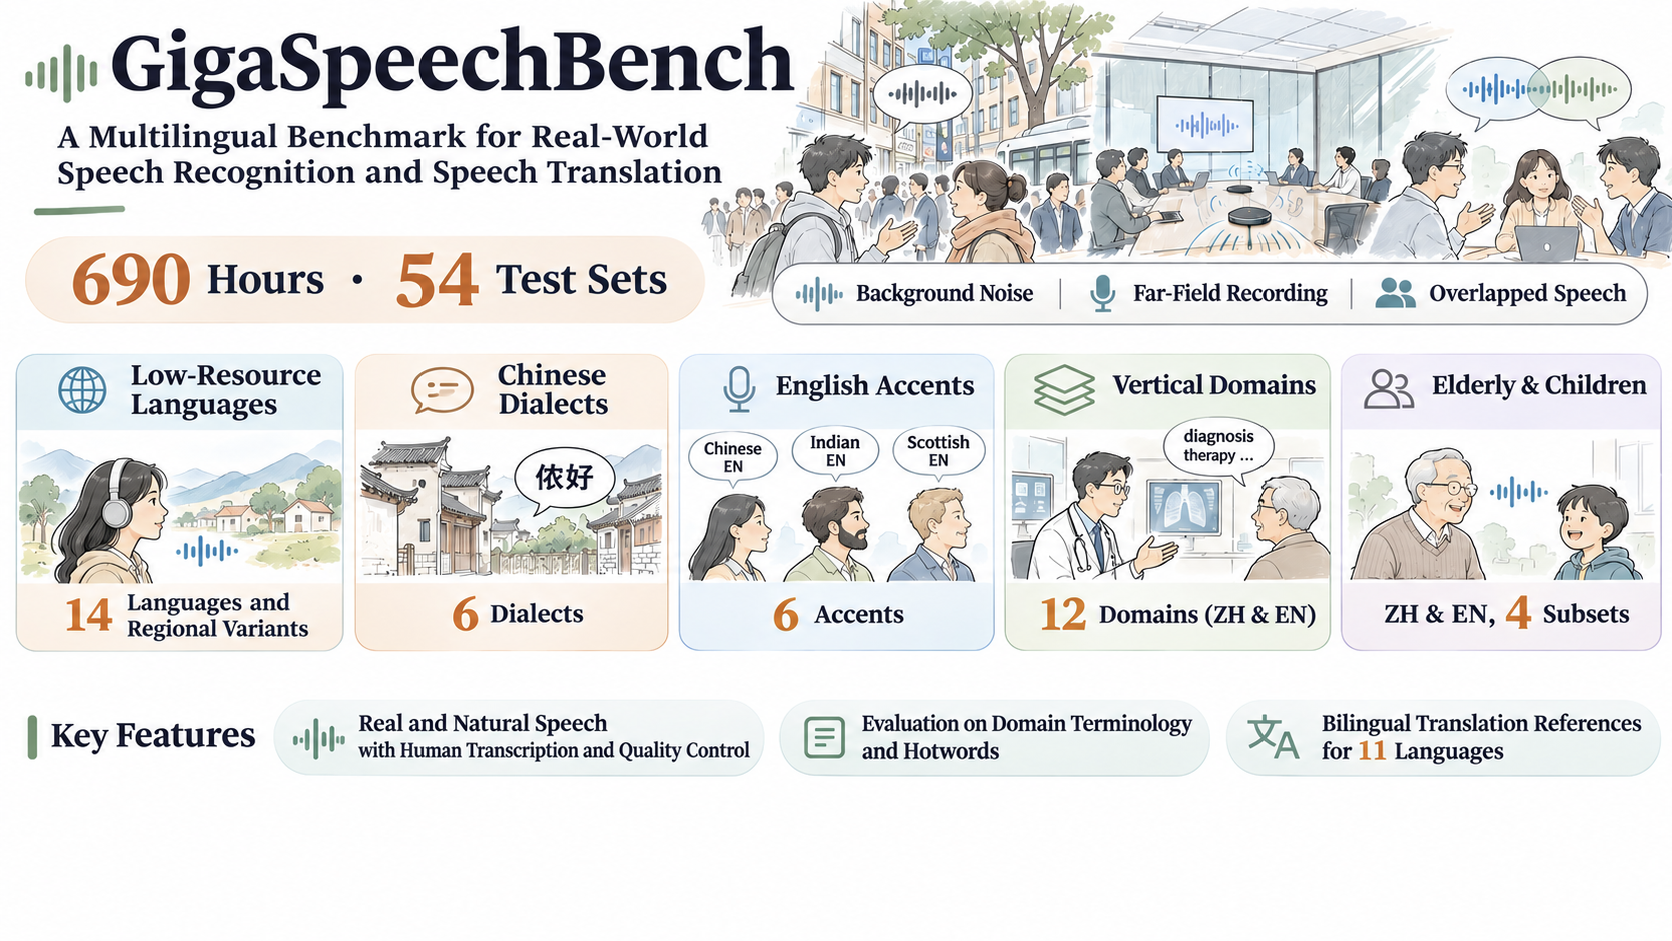
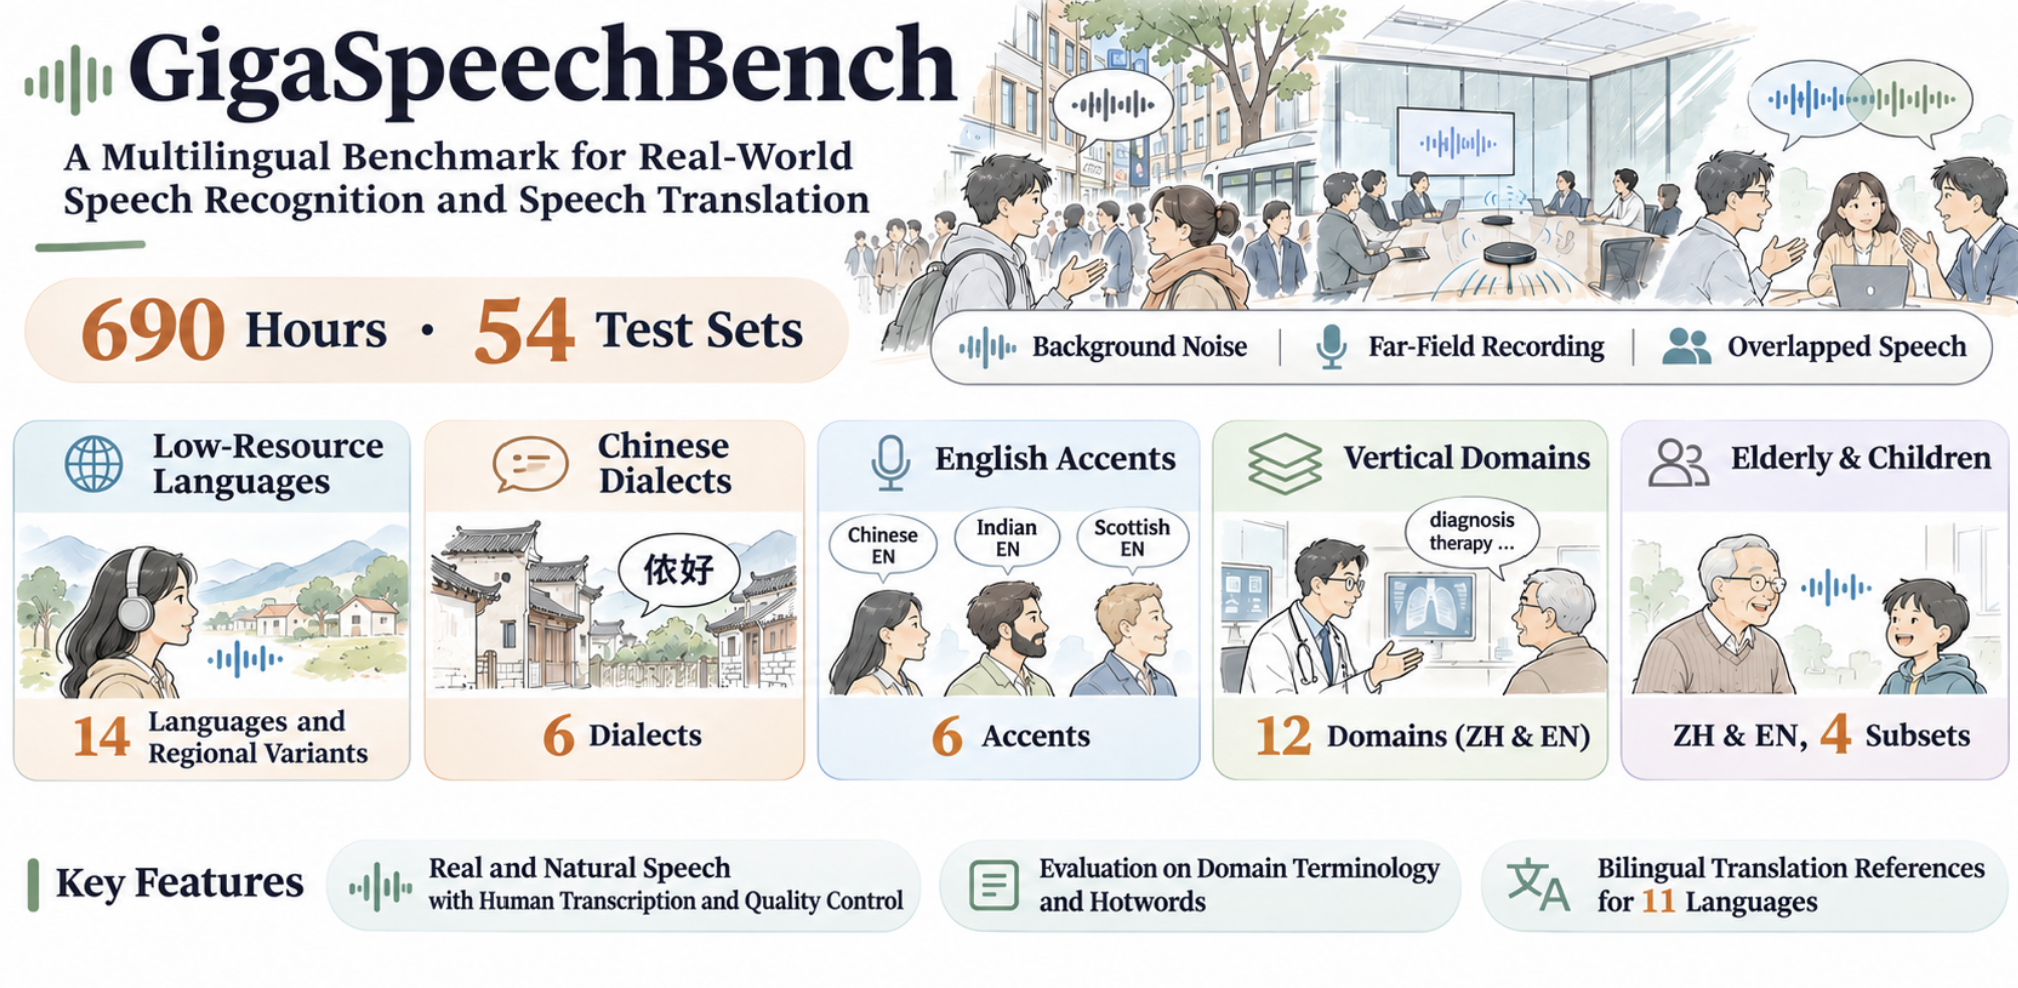
Center resource links and refresh overview image

diff --git a/README.md b/README.md
@@ -1,9 +1,15 @@
 # GigaSpeechBench: A Real-World Multilingual Speech-to-Text Benchmark
 
-[**📖 arXiv**](https://arxiv.org/abs/2606.28884) | [**📄 Technical Report**](assets/GigaSpeech_Bench_Technical_Report.pdf) | [**🛠 Code**](https://github.com/SpeechColab/GigaSpeechBench) | [**🤗 Dataset Download**](https://huggingface.co/datasets/speechcolab/GigaSpeechBench) | [**中文**](README_zh.md)
+<p align="center">
+  <a href="https://arxiv.org/abs/2606.28884"><strong>📖 arXiv</strong></a> |
+  <a href="assets/GigaSpeech_Bench_Technical_Report.pdf"><strong>📄 Technical Report</strong></a> |
+  <a href="https://github.com/SpeechColab/GigaSpeechBench"><strong>🛠 Code</strong></a> |
+  <a href="https://huggingface.co/datasets/speechcolab/GigaSpeechBench"><strong>🤗 Dataset Download</strong></a> |
+  <a href="README_zh.md"><strong>中文</strong></a>
+</p>
 
 <p align="center">
-  <img src="assets/gigaspeechbench-overview.png" alt="GigaSpeechBench overview" width="100%">
+  <img src="assets/gigaspeechbench-overview.png" alt="GigaSpeechBench overview" width="80%">
 </p>
 
 ## News

diff --git a/README_zh.md b/README_zh.md
@@ -1,9 +1,15 @@
 # GigaSpeechBench: A Real-World Multilingual Speech-to-Text Benchmark
 
-[**📖 arXiv**](https://arxiv.org/abs/2606.28884) | [**📄 技术报告**](assets/GigaSpeech_Bench_Technical_Report.pdf) | [**🛠 代码**](https://github.com/SpeechColab/GigaSpeechBench) | [**🤗 数据下载**](https://huggingface.co/datasets/speechcolab/GigaSpeechBench) | [**English**](README.md)
+<p align="center">
+  <a href="https://arxiv.org/abs/2606.28884"><strong>📖 arXiv</strong></a> |
+  <a href="assets/GigaSpeech_Bench_Technical_Report.pdf"><strong>📄 技术报告</strong></a> |
+  <a href="https://github.com/SpeechColab/GigaSpeechBench"><strong>🛠 代码</strong></a> |
+  <a href="https://huggingface.co/datasets/speechcolab/GigaSpeechBench"><strong>🤗 数据下载</strong></a> |
+  <a href="README.md"><strong>English</strong></a>
+</p>
 
 <p align="center">
-  <img src="assets/gigaspeechbench-overview.png" alt="GigaSpeechBench overview" width="100%">
+  <img src="assets/gigaspeechbench-overview.png" alt="GigaSpeechBench overview" width="80%">
 </p>
 
 ## 最新动态
